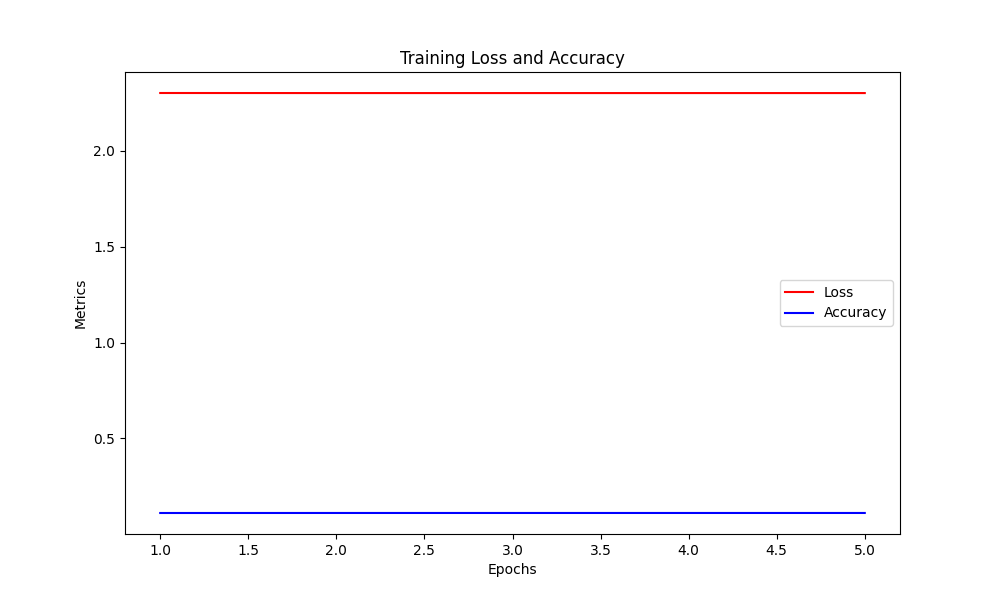
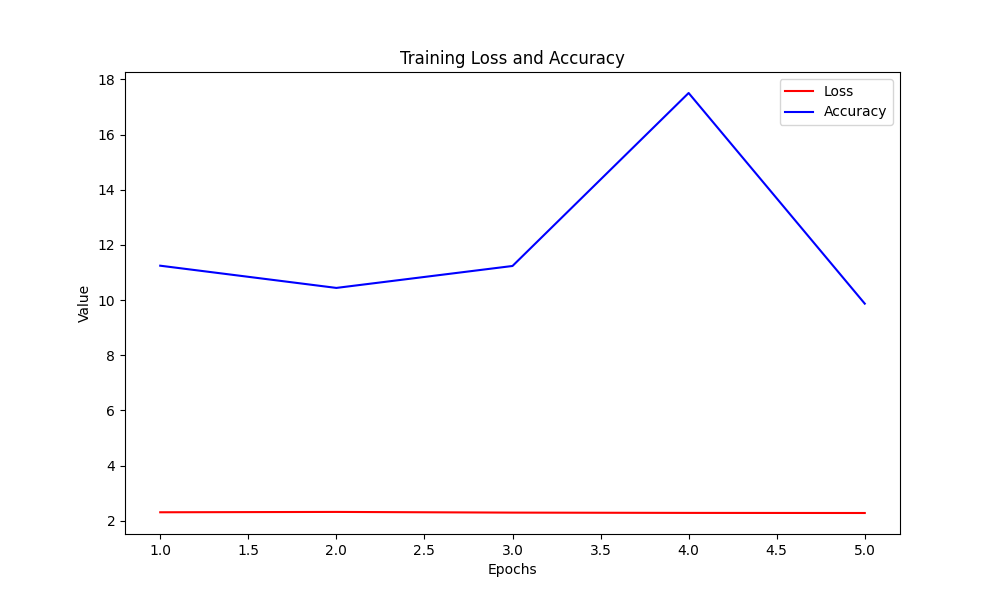
.

diff --git a/python_version/main.py b/python_version/main.py
@@ -1,96 +1,137 @@
+# Import necessary libraries
 import numpy as np
+import pandas as pd
+import torch
+import torch.nn as nn
+import torch.optim as optim
+from torchvision import datasets, transforms
 import matplotlib.pyplot as plt
-from sklearn.datasets import fetch_openml
-from sklearn.model_selection import train_test_split
-from sklearn.preprocessing import OneHotEncoder
-from tensorflow.keras.models import Sequential
-from tensorflow.keras.layers import Dense
-from tensorflow.keras.optimizers import Adam
 
+# Function to apply the sigmoid function element-wise to normalize dataset values
+def squash(value):
+    return 1.0 / (1.0 + np.exp(-value))
 
+# Normalizes a dataset using the squash function
+def normalize_dataset(dataset):
+    return np.vectorize(squash)(dataset)
 
-def squash(x):
-    """
-    Squashes the input values to a range between -1 and 1 using a hyperbolic tangent (tanh) function.
-    """
-    return np.tanh(x)
-
-
-def normalize(data):
-    """
-    Normalizes the input data to a range between 0 and 1.
-    """
-    min_val = np.min(data, axis=0)
-    max_val = np.max(data, axis=0)
-    return (data - min_val) / (max_val - min_val)
-
-
-
+# Load the MNIST dataset, preprocess it, and normalize pixel values
 def load_mnist():
     print("Loading MNIST dataset...")
-    mnist = fetch_openml('mnist_784', version=1, as_frame=False)  # Avoids requiring pandas
-    data, labels = mnist.data, mnist.target.astype(int)
+    transform = transforms.Compose([
+        transforms.ToTensor(),  # Convert images to PyTorch tensors
+        transforms.Normalize((0.5,), (0.5,))  # Normalize with mean=0.5 and std=0.5
+    ])
+    # Download and prepare train and test datasets
+    train_dataset = datasets.MNIST(root='./data', train=True, download=True, transform=transform)
+    test_dataset = datasets.MNIST(root='./data', train=False, download=True, transform=transform)
 
-    # Normalize and squash data
-    data = normalize(data)
-    data = squash(data)
+    # Flatten the images and scale pixel values to [0, 1]
+    x_train = train_dataset.data.numpy().reshape(-1, 28 * 28) / 255.0
+    y_train = train_dataset.targets.numpy()
+    x_test = test_dataset.data.numpy().reshape(-1, 28 * 28) / 255.0
+    y_test = test_dataset.targets.numpy()
 
-    # Updated to use 'sparse_output' instead of 'sparse'
-    labels = OneHotEncoder(sparse_output=False).fit_transform(labels.reshape(-1, 1))
-    x_train, x_test, y_train, y_test = train_test_split(data, labels, test_size=0.2, random_state=42)
-    print("MNIST dataset loaded successfully.")
-    return x_train, y_train, x_test, y_test
+    return normalize_dataset(x_train), y_train, normalize_dataset(x_test), y_test
 
+# Load custom datasets from CSV files
+def load_data(file_path):
+    print(f"Loading data from {file_path}...")
+    data = pd.read_csv(file_path).values  # Read data from CSV file
+    x_data = data[:, :-1]  # Features are all columns except the last
+    y_data = data[:, -1]  # Labels are in the last column
+    return x_data, y_data
 
+# Define a simple feedforward neural network
+class NeuralNet(nn.Module):
+    def __init__(self, input_dim, output_dim):
+        super(NeuralNet, self).__init__()
+        # Define the network layers
+        self.fc1 = nn.Linear(input_dim, 256)  # First fully connected layer
+        self.fc2 = nn.Linear(256, output_dim)  # Second fully connected layer
+        self.relu = nn.ReLU()  # Activation function
 
+    def forward(self, x):
+        # Forward pass through the network
+        x = self.relu(self.fc1(x))
+        x = self.fc2(x)
+        return x
+
+# Plot training loss and accuracy over epochs
 def plot_metrics(losses, accuracies):
-    epochs = range(1, len(losses) + 1)
     plt.figure(figsize=(10, 6))
-    plt.plot(epochs, losses, 'r-', label="Loss")
-    plt.plot(epochs, accuracies, 'b-', label="Accuracy")
+    epochs = range(1, len(losses) + 1)
+    plt.plot(epochs, losses, label="Loss", color="red")  # Plot loss
+    plt.plot(epochs, accuracies, label="Accuracy", color="blue")  # Plot accuracy
     plt.title("Training Loss and Accuracy")
     plt.xlabel("Epochs")
-    plt.ylabel("Metrics")
+    plt.ylabel("Value")
     plt.legend()
-    plt.savefig("training_metrics.png")
-    print("Training metrics plotted and saved as 'training_metrics.png'.")
+    plt.savefig("training_metrics.png")  # Save plot to a file
+    plt.show()
 
-
-def build_model(input_dim, output_dim):
-    model = Sequential([
-        Dense(256, input_dim=input_dim, activation='relu'),
-        Dense(output_dim, activation='softmax')
-    ])
-    model.compile(optimizer=Adam(learning_rate=0.001),
-                  loss='categorical_crossentropy',
-                  metrics=['accuracy'])
-    return model
-
-
+# Main function to manage dataset loading, training, and evaluation
 def main():
-    print("Choose the dataset to use:")
-    print("1 for MNIST")
-    choice = input("Enter your choice: ").strip()
-    if choice != "1":
+    # Specify input and output folder paths for CSV datasets
+    input_folder = "csv_data"
+    output_folder = "csv_pro_data"
+    label_column = "id"
+
+    # User selects dataset type and number of training epochs
+    dataset_choice = int(input("Choose the dataset to use (1 for MNIST, 2 for Custom CSV Data): ").strip())
+    epochs = int(input("Enter the number of training epochs: ").strip())
+
+    # Load dataset based on user choice
+    if dataset_choice == 1:
+        # Use MNIST dataset
+        x_train, y_train, x_test, y_test = load_mnist()
+        input_dim, output_dim = 784, 10  # Input and output dimensions
+    elif dataset_choice == 2:
+        # Use custom dataset from a CSV file
+        file_path = input("Enter the path to the CSV file: ").strip()
+        x_data, y_data = load_data(file_path)
+        train_size = int(0.8 * len(x_data))  # 80-20 train-test split
+        x_train, y_train = x_data[:train_size], y_data[:train_size]
+        x_test, y_test = x_data[train_size:], y_data[train_size:]
+        input_dim, output_dim = x_data.shape[1], len(np.unique(y_data))  # Determine dimensions
+    else:
+        # Default to MNIST dataset
         print("Invalid choice! Defaulting to MNIST.")
-    x_train, y_train, x_test, y_test = load_mnist()
+        x_train, y_train, x_test, y_test = load_mnist()
+        input_dim, output_dim = 784, 10
 
-    print("Enter the number of training epochs: ")
-    epochs = input().strip()
-    epochs = int(epochs) if epochs.isdigit() else 10
+    # Set up the device, model, optimizer, and loss function
+    device = torch.device("cuda" if torch.cuda.is_available() else "cpu")
+    model = NeuralNet(input_dim, output_dim).to(device)
+    optimizer = optim.Adam(model.parameters(), lr=0.001)  # Adam optimizer
+    criterion = nn.CrossEntropyLoss()  # Cross-entropy loss for classification
 
-    model = build_model(input_dim=x_train.shape[1], output_dim=y_train.shape[1])
-    print("Training model...")
-    history = model.fit(x_train, y_train, epochs=epochs, batch_size=64, validation_split=0.2)
+    # Initialize lists to store losses and accuracies
+    losses, accuracies = [], []
+    x_train_tensor = torch.tensor(x_train, dtype=torch.float32).to(device)
+    y_train_tensor = torch.tensor(y_train, dtype=torch.long).to(device)
 
-    losses = history.history['loss']
-    accuracies = history.history['accuracy']
+    # Training loop
+    for epoch in range(1, epochs + 1):
+        model.train()  # Set model to training mode
+        optimizer.zero_grad()  # Reset gradients
+        outputs = model(x_train_tensor)  # Forward pass
+        loss = criterion(outputs, y_train_tensor)  # Compute loss
+        loss.backward()  # Backpropagation
+        optimizer.step()  # Update weights
+
+        # Calculate training accuracy
+        _, predicted = torch.max(outputs, 1)
+        accuracy = (predicted == y_train_tensor).sum().item() / len(y_train_tensor) * 100
+
+        # Log loss and accuracy
+        losses.append(loss.item())
+        accuracies.append(accuracy)
+        print(f"Epoch {epoch}/{epochs}, Loss: {loss.item():.4f}, Accuracy: {accuracy:.2f}%")
+
+    # Plot the training metrics
     plot_metrics(losses, accuracies)
 
-    print("Evaluating model...")
-    loss, accuracy = model.evaluate(x_test, y_test)
-    print(f"Test Loss: {loss:.4f}, Test Accuracy: {accuracy:.2%}")
-
-
+# Entry point for the script
 if __name__ == "__main__":
     main()
